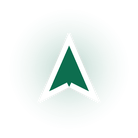
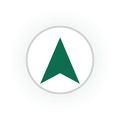
Le curseur de position se detache enfin du trace
LE DEFAUT ETAIT ECRIT DANS LE CODE. La fleche etait remplie de la
couleur de l itineraire — et posee SUR cet itineraire. Deux surfaces de
la meme teinte l une sur l autre ne font qu une seule forme : il ne
restait d elle que son lisere blanc, deux pixels a l ecran, d ou le
trait fin et incertain que le client a releve sur sa capture.

Le commentaire d origine avait vu le risque et comptait sur ce lisere
pour y parer. Il etait trop mince pour cela, et un lisere ne repare pas
une forme qui disparait — il la souligne.

UN DISQUE BLANC OPAQUE regle la chose a la source : ce n est plus le
fond de carte qui porte la fleche mais un fond a nous. Quoi qu il y ait
dessous — le trace vert, une route jaune, un parc — elle se detache.

L anneau sombre qui le borde sert au cas inverse : sur le beige clair du
fond de carte, un disque blanc sans contour se dissout a son tour. Les
deux fonds ont ete regardes, pas supposes.

LES DEUX CURSEURS SONT CORRIGES ENSEMBLE. Il y en a un en React Native,
affiche quand la camera suit le conducteur, et une image PNG posee sur
la carte quand le suivi s interrompt. Ne corriger que le premier aurait
laisse le defaut apparaitre des qu on deplace la carte du doigt pour
choisir une deviation — c est-a-dire au moment ou l on regarde le plus
attentivement ou l on se trouve.

AU PASSAGE, UNE DERIVE. Le script d images declarait TAILLE_DP = 46 avec
un commentaire affirmant que c etait la valeur de NAV_PUCK_SIZE, laquelle
[…]

Changed region(s): [[0.2, 0.2, 0.8, 0.8]]

diff --git a/apps/mobile/src/components/NavArrow.tsx b/apps/mobile/src/components/NavArrow.tsx
@@ -1,6 +1,6 @@
 import { useEffect, useRef } from 'react';
 import { Animated, Easing, StyleSheet, View } from 'react-native';
-import Svg, { Path } from 'react-native-svg';
+import Svg, { Circle, Path } from 'react-native-svg';
 
 /**
  * Fleche de position pendant le guidage.
@@ -20,12 +20,33 @@ import Svg, { Path } from 'react-native-svg';
 /** Repere de dessin. Seule `size` fixe l'echelle reelle. */
 const BOX = 128;
 const CX = BOX / 2;
+
+/**
+ * LE DISQUE BLANC EST LE CORRECTIF, PAS UN ORNEMENT.
+ *
+ * La fleche etait remplie de la couleur de l'itineraire, et posee SUR cet itineraire : deux
+ * surfaces de la meme teinte l'une sur l'autre ne font qu'une seule forme. Il ne restait d'elle
+ * que son liseré blanc — deux pixels de large a l'ecran — ce qui donnait le trait fin et
+ * incertain que le client a releve. Le commentaire d'origine avait vu le risque et comptait sur
+ * ce liseré pour y parer ; il etait trop mince pour cela.
+ *
+ * Un disque blanc OPAQUE dessous regle le probleme a la source : quoi qu'il y ait sous le
+ * curseur — le trace vert, une route jaune, un parc — la fleche se detache toujours, puisque
+ * ce n'est plus le fond de carte qui la porte mais un fond a nous.
+ *
+ * L'anneau sombre qui le borde sert au cas inverse : sur le beige clair du fond de carte, un
+ * disque blanc sans contour se dissout a son tour.
+ */
+const RAYON_DISQUE = 52;
+const EPAISSEUR_ANNEAU = 3;
+
 /** Pointe, base et creux arriere : un triangle dont le bas est legerement rentre, ce qui lui
- * donne sa direction d'un coup d'oeil la ou un triangle plat parait pose au hasard. */
-const TIP_Y = 16;
-const BASE_Y = 108;
-const HALF_WIDTH = 40;
-const NOTCH_Y = 88;
+ * donne sa direction d'un coup d'oeil la ou un triangle plat parait pose au hasard.
+ * Il est RETRECI pour tenir dans le disque, avec de la marge blanche tout autour. */
+const TIP_Y = 30;
+const BASE_Y = 100;
+const HALF_WIDTH = 30;
+const NOTCH_Y = 84;
 
 const PATH = [
   `M ${CX} ${TIP_Y}`,
@@ -73,9 +94,16 @@ export function NavArrow({ size, color = '#0D6E4F' }: { size: number; color?: st
         ]}
       />
       <Svg width={size} height={size} viewBox={`0 0 ${BOX} ${BOX}`}>
-        {/* Le contour blanc n'est pas decoratif : sans lui, le triangle se perd des que la route
-            sous lui est de la meme teinte — c'est le cas du trace lui-meme. */}
-        <Path d={PATH} fill={color} stroke="#FFFFFF" strokeWidth="7" strokeLinejoin="round" />
+        {/* Le disque, puis la fleche par-dessus : voir la note en tete de fichier. */}
+        <Circle
+          cx={CX}
+          cy={CX}
+          r={RAYON_DISQUE}
+          fill="#FFFFFF"
+          stroke="rgba(0,0,0,0.22)"
+          strokeWidth={EPAISSEUR_ANNEAU}
+        />
+        <Path d={PATH} fill={color} strokeLinejoin="round" />
       </Svg>
     </View>
   );

diff --git a/apps/mobile/scripts/make-nav-arrow.py b/apps/mobile/scripts/make-nav-arrow.py
@@ -38,15 +38,21 @@ COULEURS = {
     'night': (46, 230, 166),
 }
 
-# Cote de l'image en points. 46 est la taille du marqueur en mode suivi (NAV_PUCK_SIZE) : la
-# fleche garde donc la meme corpulence que le suivi s'interrompe ou non.
-TAILLE_DP = 46
+# Cote de l'image en points : la MEME que NAV_PUCK_SIZE dans app/index.tsx, pour que la fleche
+# garde exactement la meme corpulence que le suivi s'interrompe ou non.
+#
+# Les deux avaient derive — 46 ici contre 40 la-bas — et le commentaire affirmait pourtant
+# qu'elles etaient egales. Personne ne pouvait le voir : les deux fleches ne s'affichent jamais
+# en meme temps, et un ecart de six points ne saute aux yeux que si on les compare cote a cote.
+TAILLE_DP = 40
 
 # Le triangle, repris trait pour trait de NavArrow.tsx (repere 0-128) : pointe haute, base
 # large, et un creux a l'arriere — c'est ce creux qui donne la direction au premier coup d'oeil
 # la ou un triangle plat parait pose au hasard.
 BOX = 128.0
-TIP_Y, BASE_Y, NOTCH_Y, HALF_WIDTH = 16.0, 108.0, 88.0, 40.0
+TIP_Y, BASE_Y, NOTCH_Y, HALF_WIDTH = 30.0, 100.0, 84.0, 30.0
+RAYON_DISQUE = 52.0
+EPAISSEUR_ANNEAU = 3.0
 
 
 def make_arrow(nom, couleur, scale):
@@ -68,7 +74,14 @@ def make_arrow(nom, couleur, scale):
         dessin_halo.ellipse([c - r, c - r, c + r, c + r], fill=couleur + (a,))
     img.alpha_composite(halo)
 
-    # 2) la fleche. Le trace occupe 70 % du cote : le reste est la place du halo.
+    # 2) LE DISQUE BLANC, puis la fleche par-dessus.
+    #
+    #    La fleche etait remplie de la couleur de l'itineraire et posee SUR cet itineraire :
+    #    deux surfaces de la meme teinte l'une sur l'autre ne font qu'une seule forme, et il ne
+    #    restait d'elle que son liseré blanc de deux pixels. Un disque blanc OPAQUE regle cela a
+    #    la source — ce n'est plus le fond de carte qui porte la fleche mais un fond a nous.
+    #    L'anneau sombre sert au cas inverse : sur le beige clair du fond, un disque blanc sans
+    #    contour se dissout a son tour.
     k = (S * 0.70) / BOX
     ox = c - (BOX / 2.0) * k
     oy = c - (BOX / 2.0) * k
@@ -82,14 +95,15 @@ def make_arrow(nom, couleur, scale):
         pt(BOX / 2, NOTCH_Y),
         pt(BOX / 2 - HALF_WIDTH, BASE_Y),
     ]
-    # Le contour blanc n'est pas decoratif : sans lui, le triangle se perd des que la route
-    # sous lui est de la meme teinte — c'est le cas du trace lui-meme.
-    ImageDraw.Draw(img).polygon(
-        triangle,
-        fill=couleur + (255,),
-        outline=(255, 255, 255, 255),
-        width=max(1, int(7 * k)),
+    dessin = ImageDraw.Draw(img)
+    r = RAYON_DISQUE * k
+    dessin.ellipse(
+        [c - r, c - r, c + r, c + r],
+        fill=(255, 255, 255, 255),
+        outline=(0, 0, 0, 56),
+        width=max(1, int(EPAISSEUR_ANNEAU * k)),
     )
+    dessin.polygon(triangle, fill=couleur + (255,))
 
     suffix = '' if scale == 1 else '@%dx' % scale
     petit = img.resize((S // SS, S // SS), Image.LANCZOS)
